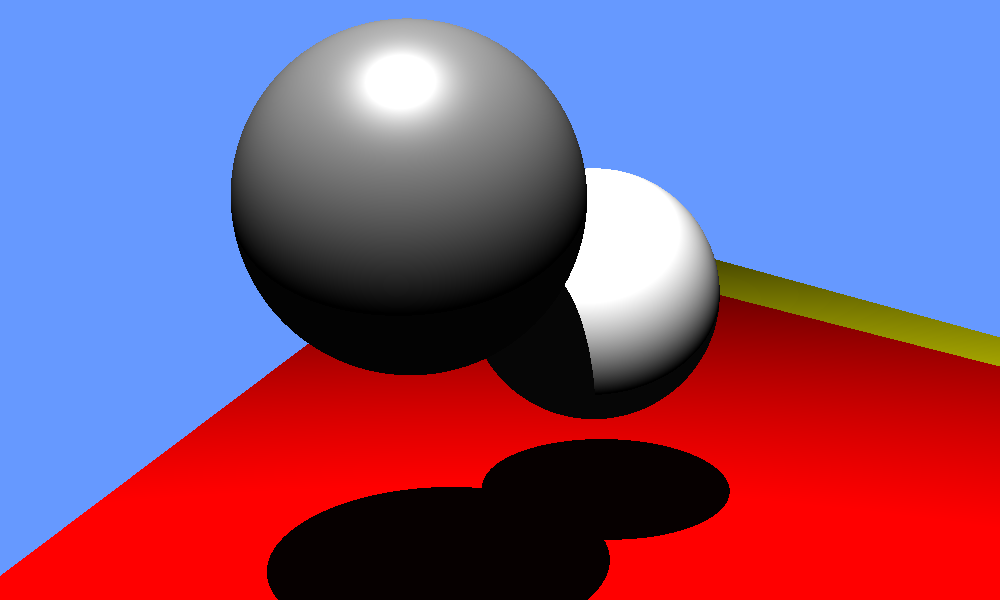
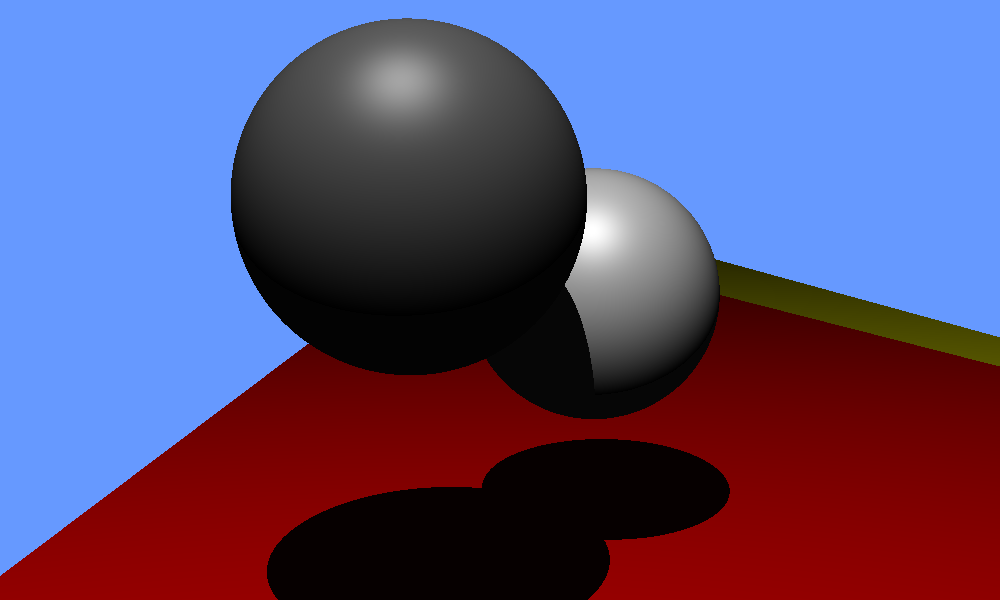
Changed main light value to be consistent.

diff --git a/raytracer/src/main.rs b/raytracer/src/main.rs
@@ -75,7 +75,7 @@ fn create_lights() -> Vec<LightSource> {
     let mut lights = vec![];
 
     let main_light_pos = Vec3::new(-1.0, 20.0, 10.0);
-    let main_light_radiance = Vec3::new(2.0, 2.0, 2.0);
+    let main_light_radiance = Vec3::new(1.0, 1.0, 1.0);
     let main_light_ambient = Vec3::new(0.25, 0.25, 0.25);
 
     lights.push(LightSource::new(
